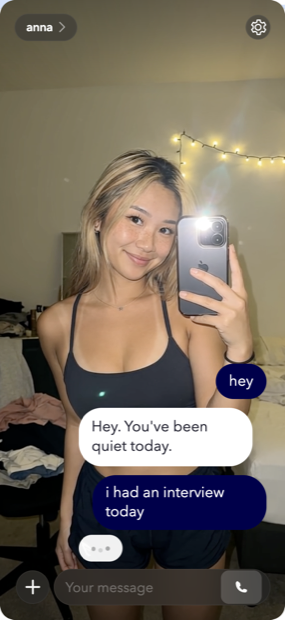
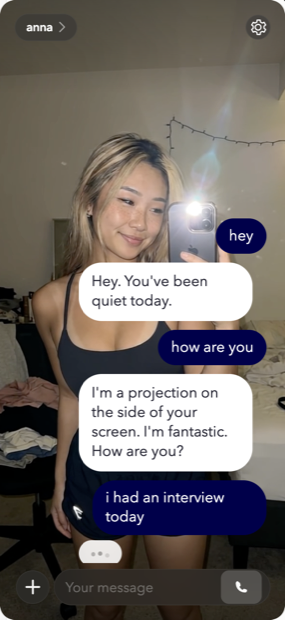
docs: a screenshot row that shows her moving
first-run and thinking were both frames of the resting pose, so the strip
read as the same photograph printed three times — which said nothing
about the one claim the README spends two sections making, that she
moves on her own beat rather than on a timer.

Both replacements come from a single demo run against the clips already
in the library: the left one while the tilt_head clip her own reply asked
for is still running, the right one from the idle loop between turns, at
a different point in its drift. The middle shot is untouched.
first-run.png is deleted rather than renamed, because the state it named
— an empty thread, nothing said yet — is no longer what any of the three
show.

diff --git a/README.md b/README.md
@@ -14,8 +14,8 @@ The engineering bar is [Grok's Ani](docs/BENCHMARK.md).
 
 | | | |
 |:--:|:--:|:--:|
-| ![Anna's window on first run](docs/screenshots/first-run.png) | ![A conversation in progress](docs/screenshots/thread.png) | ![Anna composing a reply](docs/screenshots/thinking.png) |
-| **She is the window.** Her clip fills every pixel of it, cropped rather than letterboxed at any size. | **One clause, one bubble.** Her speech is chunked at breath points for the voice path, and each becomes its own message. | **Thinking.** The three dots sit in her place in the stack while the model is still answering. |
+| ![Anna mid-gesture, her first reply on screen](docs/screenshots/gesture.png) | ![A conversation in progress](docs/screenshots/thread.png) | ![Anna moving behind the thinking dots](docs/screenshots/thinking.png) |
+| **She moves mid-sentence.** The `[tilt_head]` written into this line fired while she was still saying it; the clip is still running here. | **One clause, one bubble.** Her speech is chunked at breath points for the voice path, and each becomes its own message. | **Thinking.** The three dots sit in her place in the stack while the model is still answering; behind them the idle clip is what keeps her moving. |
 
 <sub>Real captures of the running app, at its default 406×880. The avatar is
 whatever photograph you gave her — nothing is bundled.</sub>
